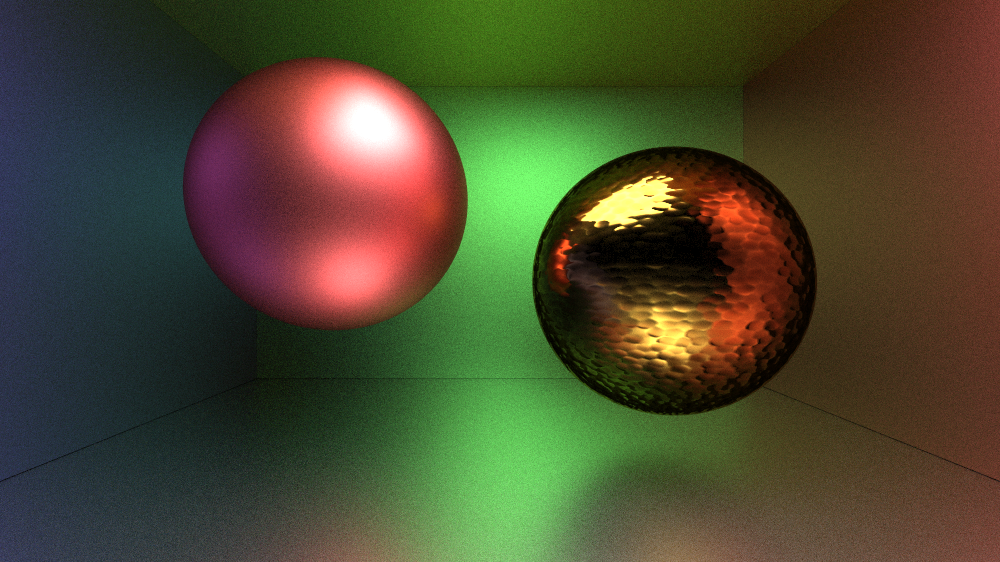
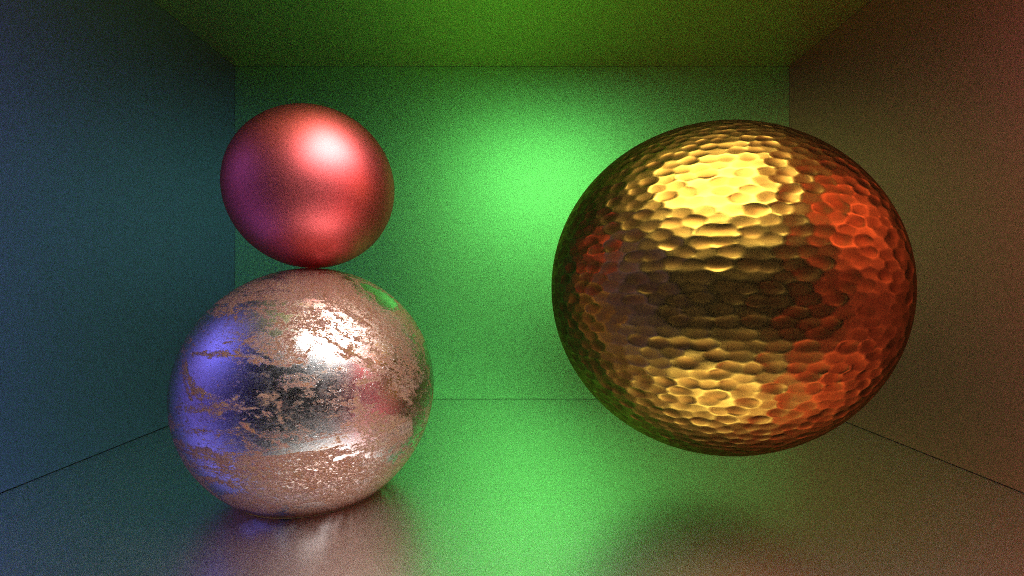
fix: fixed broken normal map shading by loading non base color maps as raw value instead

diff --git a/main.cpp b/main.cpp
@@ -78,7 +78,7 @@ Scene checkered_spheres() {
 Scene earth() {
   Scene scene;
 
-  auto earth_texture = std::make_shared<image_texture>("earthmap.jpg"); // import image texture
+  auto earth_texture = std::make_shared<image_texture>("earthmap.jpg", true); // import image texture
   auto earth_surface = std::make_shared<lambertian>(earth_texture);     // create earth surface MATERIAL using the earth texture
   auto globe = std::make_shared<sphere>(point3(0,0,0), 2, earth_surface);
 
@@ -158,7 +158,7 @@ Scene simple_light() {
   scene.add_object(std::make_shared<sphere>(point3(0,2,0), 2, std::make_shared<lambertian>(pertext)));
 
   auto difflight = std::make_shared<diffuse_light>(color(1, 1, 1));
-  auto voronoi_light = std::make_shared<diffuse_light>(std::make_shared<image_texture>("worley.png"));
+  auto voronoi_light = std::make_shared<diffuse_light>(std::make_shared<image_texture>("worley.png", true));
   scene.add_object(std::make_shared<quad>(point3(3,1,-2), vec3(2,0,0), vec3(0,2,0), difflight));
   return scene;
 }
@@ -170,30 +170,46 @@ Scene metal_sphere_pbr() {
     std::monostate{}
   );
 
-  auto metal_color = std::make_shared<image_texture>("hammered-gold_albedo.png");
-  auto metal_normal = std::make_shared<image_texture>("hammered-gold_normal-ogl.png");
-  auto metal_roughness = std::make_shared<image_texture>("hammered-gold_roughness.png");
-  auto metal_metalness = std::make_shared<image_texture>("hammered-gold_metallic.png");
+  auto metal_color = std::make_shared<image_texture>("hammered-gold_albedo.png", false);
+  auto metal_normal = std::make_shared<image_texture>("hammered-gold_normal-ogl.png", true);
+  auto metal_roughness = std::make_shared<image_texture>("hammered-gold_roughness.png", true);
+  auto metal_metalness = std::make_shared<image_texture>("hammered-gold_metallic.png", true);
+
+  auto metal_color_1 = std::make_shared<image_texture>("rustediron2_basecolor.png", false);
+  auto metal_normal_1 = std::make_shared<image_texture>("rustediron2_normal.png", true);
+  auto metal_roughness_1 = std::make_shared<image_texture>("rustediron2_roughness.png", true);
+  auto metal_metalness_1 = std::make_shared<image_texture>("rustediron2_metallic.png", true);
+
+  auto no_normal = std::make_shared<image_texture>("no_normal.png", true);
+
+  auto metal_color_2 = std::make_shared<image_texture>("gsteel_color.jpg", false);
+  auto metal_normal_2 = std::make_shared<image_texture>("gsteel_normal.jpg", true);
+  auto metal_roughness_2 = std::make_shared<image_texture>("gsteel_roughness.jpg", true);
+  auto metal_metalness_2 = std::make_shared<image_texture>("gsteel_metal.jpg", true);
 
   auto red     = std::make_shared<pbr_material>(color(1.0, 0.2, 0.2), std::monostate {}, color(0.62), color(.5), 0.2);
   auto yellow  = std::make_shared<pbr_material>(color(1.0, 1.0, 0.2), std::monostate {}, color(.1), color(.5), 0.2);
   auto green   = std::make_shared<pbr_material>(color(0.2, 1.0, 0.2), std::monostate {}, color(.1), color(.5), 0.2);
   auto blue    = std::make_shared<pbr_material>(color(0.2, 0.2, 1.0), std::monostate {}, color(.1), color(.5), 0.2);
   auto gray    = std::make_shared<pbr_material>(color(1), std::monostate {}, color(.1), color(.4), 0.2);
-  auto metal_sphere = std::make_shared<pbr_material>(metal_color, metal_normal, metal_metalness, metal_roughness, 0.3);
 
-  scene.add_object(std::make_shared<sphere>(point3(-1, 0.5, 0), 0.8, red));
+  auto metal_sphere = std::make_shared<pbr_material>(metal_color, metal_normal, metal_metalness, metal_roughness, 0.3);
+  auto metal_sphere_1 = std::make_shared<pbr_material>(metal_color_1, metal_normal_1, metal_metalness_1, metal_roughness_1, 0.3);
+  auto metal_sphere_2 = std::make_shared<pbr_material>(metal_color_2, metal_normal_2, metal_metalness_2, metal_roughness_2, 0.3);
+
+  scene.add_object(std::make_shared<sphere>(point3(-1, 0.5, 0), 0.4, red));
   scene.add_object(std::make_shared<sphere>(point3(1, 0, 0), 0.8, metal_sphere));
+  scene.add_object(std::make_shared<sphere>(point3(-1, -0.5, 0), 0.6, metal_sphere_1));
   scene.add_object(std::make_shared<sphere>(point3(0, -1001, 0), 1000, gray));
 
   auto difflight = std::make_shared<diffuse_light>(color(0, 0, 10));
   auto difflight1 = std::make_shared<diffuse_light>(color(10, 10, 0));
   auto difflight2 = std::make_shared<diffuse_light>(color(10, 10, 10));
 
-  scene.add_object(std::make_shared<quad>(point3(2.5, 2, 2), vec3(0, -3, 0), vec3(0, 0, -5), red));
+  scene.add_object(std::make_shared<quad>(point3(2.5, 2, -2), vec3(0, -3, 0), vec3(0, 0, 5), red));
   scene.add_object(std::make_shared<quad>(point3(-2.5, 2, -2), vec3(0, -3, 0), vec3(0, 0, 5), blue));
   scene.add_object(std::make_shared<quad>(point3(-2.5, 2, -2), vec3(0, -3, 0), vec3(5, 0, 0), green));
-  scene.add_object(std::make_shared<quad>(point3(-2.5, 2, -2), vec3(0, 0, 10), vec3(5, 0, 0), yellow));
+  scene.add_object(std::make_shared<quad>(point3(-2.5, 2, -2), vec3(0, 0, 5), vec3(5, 0, 0), yellow));
 
   scene.add_object(std::make_shared<quad>(point3(-0.5, 2, 2.5), vec3(0, 0, -2), vec3(2, 0, 0), difflight2));
   // scene.add_light(std::make_shared<point_light>(vec3(20, 20, 20), color(2000, 2000, 2000)));
@@ -241,18 +257,18 @@ int main(int argc, char* argv[]) {
     // Render
   Camera cam = Camera();
 
-  cam.image_width = 1000;
+  cam.image_width = 1024;
   cam.aspect_ratio = 16.0 / 9.0;
   cam.enableAA          = true;
   cam.reflectance_coeff = 0.5;
   cam.verticalFOV       = 60;
 
-  cam.look_from         = point3(0, 0, 3);
+  cam.look_from         = point3(0, 0, 2.5);
   cam.look_at           = point3(0, 0, 0);
   cam.world_up          = vec3(0, 1, 0);
 
   cam.max_bounces       = 10;
-  cam.sample_per_pixel  = 2000;
+  cam.sample_per_pixel  = 1000;
 
   cam.dof_angle         = 0.0;
   cam.focus_dist        = 3.4;

diff --git a/material/rtw_stb_image.h b/material/rtw_stb_image.h
@@ -18,7 +18,7 @@ class rtw_image {
   public:
     rtw_image() {}
 
-    rtw_image(const char* image_filename) {
+    rtw_image(const char* image_filename, bool loadRaw) {
       // Loads image data from the specified file. If the RTW_IMAGES environment variable is
       // defined, looks only in that directory for the image file. If the image was not found,
       // searches for the specified image file first from the current directory, then in the
@@ -30,15 +30,15 @@ class rtw_image {
       auto imagedir = getenv("RTW_IMAGES");
 
       // Hunt for the image file in some likely locations.
-      if (imagedir && load(std::string(imagedir) + "/" + image_filename)) return;
-      if (load(filename)) return;
-      if (load("images/" + filename)) return;
-      if (load("../images/" + filename)) return;
-      if (load("../../images/" + filename)) return;
-      if (load("../../../images/" + filename)) return;
-      if (load("../../../../images/" + filename)) return;
-      if (load("../../../../../images/" + filename)) return;
-      if (load("../../../../../../images/" + filename)) return;
+      if (imagedir && load(std::string(imagedir) + "/" + image_filename, loadRaw)) return;
+      if (load(filename, loadRaw)) return;
+      if (load("images/" + filename, loadRaw)) return;
+      if (load("../images/" + filename, loadRaw)) return;
+      if (load("../../images/" + filename, loadRaw)) return;
+      if (load("../../../images/" + filename, loadRaw)) return;
+      if (load("../../../../images/" + filename, loadRaw)) return;
+      if (load("../../../../../images/" + filename, loadRaw)) return;
+      if (load("../../../../../../images/" + filename, loadRaw)) return;
 
       std::cerr << "ERROR: Could not load image file '" << image_filename << "'.\n";
     }
@@ -48,7 +48,7 @@ class rtw_image {
       STBI_FREE(fdata);
     }
 
-    bool load(const std::string& filename) {
+    bool load(const std::string& filename, bool loadRaw) {
       // Loads the linear (gamma=1) image data from the given file name. Returns true if the
       // load succeeded. The resulting data buffer contains the three [0.0, 1.0]
       // floating-point values for the first pixel (red, then green, then blue). Pixels are
@@ -56,6 +56,7 @@ class rtw_image {
       // below, for the full height of the image.
 
       auto n = bytes_per_pixel; // Dummy out parameter: original components per pixel
+      if (loadRaw) stbi_ldr_to_hdr_gamma(1.0f);
       fdata = stbi_loadf(filename.c_str(), &image_width, &image_height, &n, bytes_per_pixel);
       if (fdata == nullptr) return false;
 

diff --git a/primitives/sphere.h b/primitives/sphere.h
@@ -60,8 +60,8 @@ class sphere : public hittable {
       vec3 outward_normal = (rec.point_incident - current_center) / radius;
 
       rec.set_face_normal(r, outward_normal);
-      rec.tangent = compute_tangent(rec.point_incident, current_center);
-      rec.bitangent = compute_bitangent(rec.normal, rec.tangent);
+      rec.tangent = compute_tangent(outward_normal, current_center);
+      rec.bitangent = compute_bitangent(outward_normal, rec.tangent);
 
       get_sphere_uv(outward_normal, rec.u, rec.v);
 
@@ -89,7 +89,7 @@ class sphere : public hittable {
     }
 
     vec3 compute_bitangent(const vec3 &normal, const vec3 &tangent) const {
-      return unit_vector(cross(tangent, normal));
+      return unit_vector(cross(normal, tangent));
     }
 };
 

diff --git a/material/material.h b/material/material.h
@@ -247,9 +247,8 @@ class pbr_material : public material {
     void texture_normal_mapping(const hit_record &rec, vec3 &normal_value) const {
       if ((normal_value == color(INT_MIN, INT_MIN, INT_MIN))) normal_value = rec.normal;
       else {
+        vec3 tangent_space_normal = unit_vector(normal_value * vec3(2.0, 2.0, 2.0) - vec3(1.0, 1.0, 1.0));
 
-        // vec3 tangent_space_normal = unit_vector(normal_value * vec3(2.0, 2.0, 2.0) - vec3(1.0, 1.0, 1.0));
-        vec3 tangent_space_normal = normal_value;
         normal_value =
           rec.tangent   * tangent_space_normal.x() +
           rec.bitangent * tangent_space_normal.y() +

diff --git a/material/texture.h b/material/texture.h
@@ -55,7 +55,7 @@ class checker_texture : public texture {
 
 class image_texture : public texture {
   public:
-    image_texture(const char* filename) : image(filename) {}
+    image_texture(const char* filename, bool loadRaw) : image(filename, loadRaw) {}
 
     color value (double u, double v, const point3& p) const override {
       // no texture data, return solid cyan for debugging

diff --git a/README.md b/README.md
@@ -84,4 +84,4 @@ An example render case of the project:
 [Main_render]: output/MainRender.png
 
 
-A render of a red sphere and a gold metal sphere, with white emissive light on top, surrounded by multiple walls / planes with reflective and partially metallic properties at 2000 samples per pixel
+A render of a red sphere, a gold metal sphere, and a rusted iron sphere with white emissive light on top, surrounded by multiple walls / planes with reflective and partially metallic properties at 1000 samples per pixel